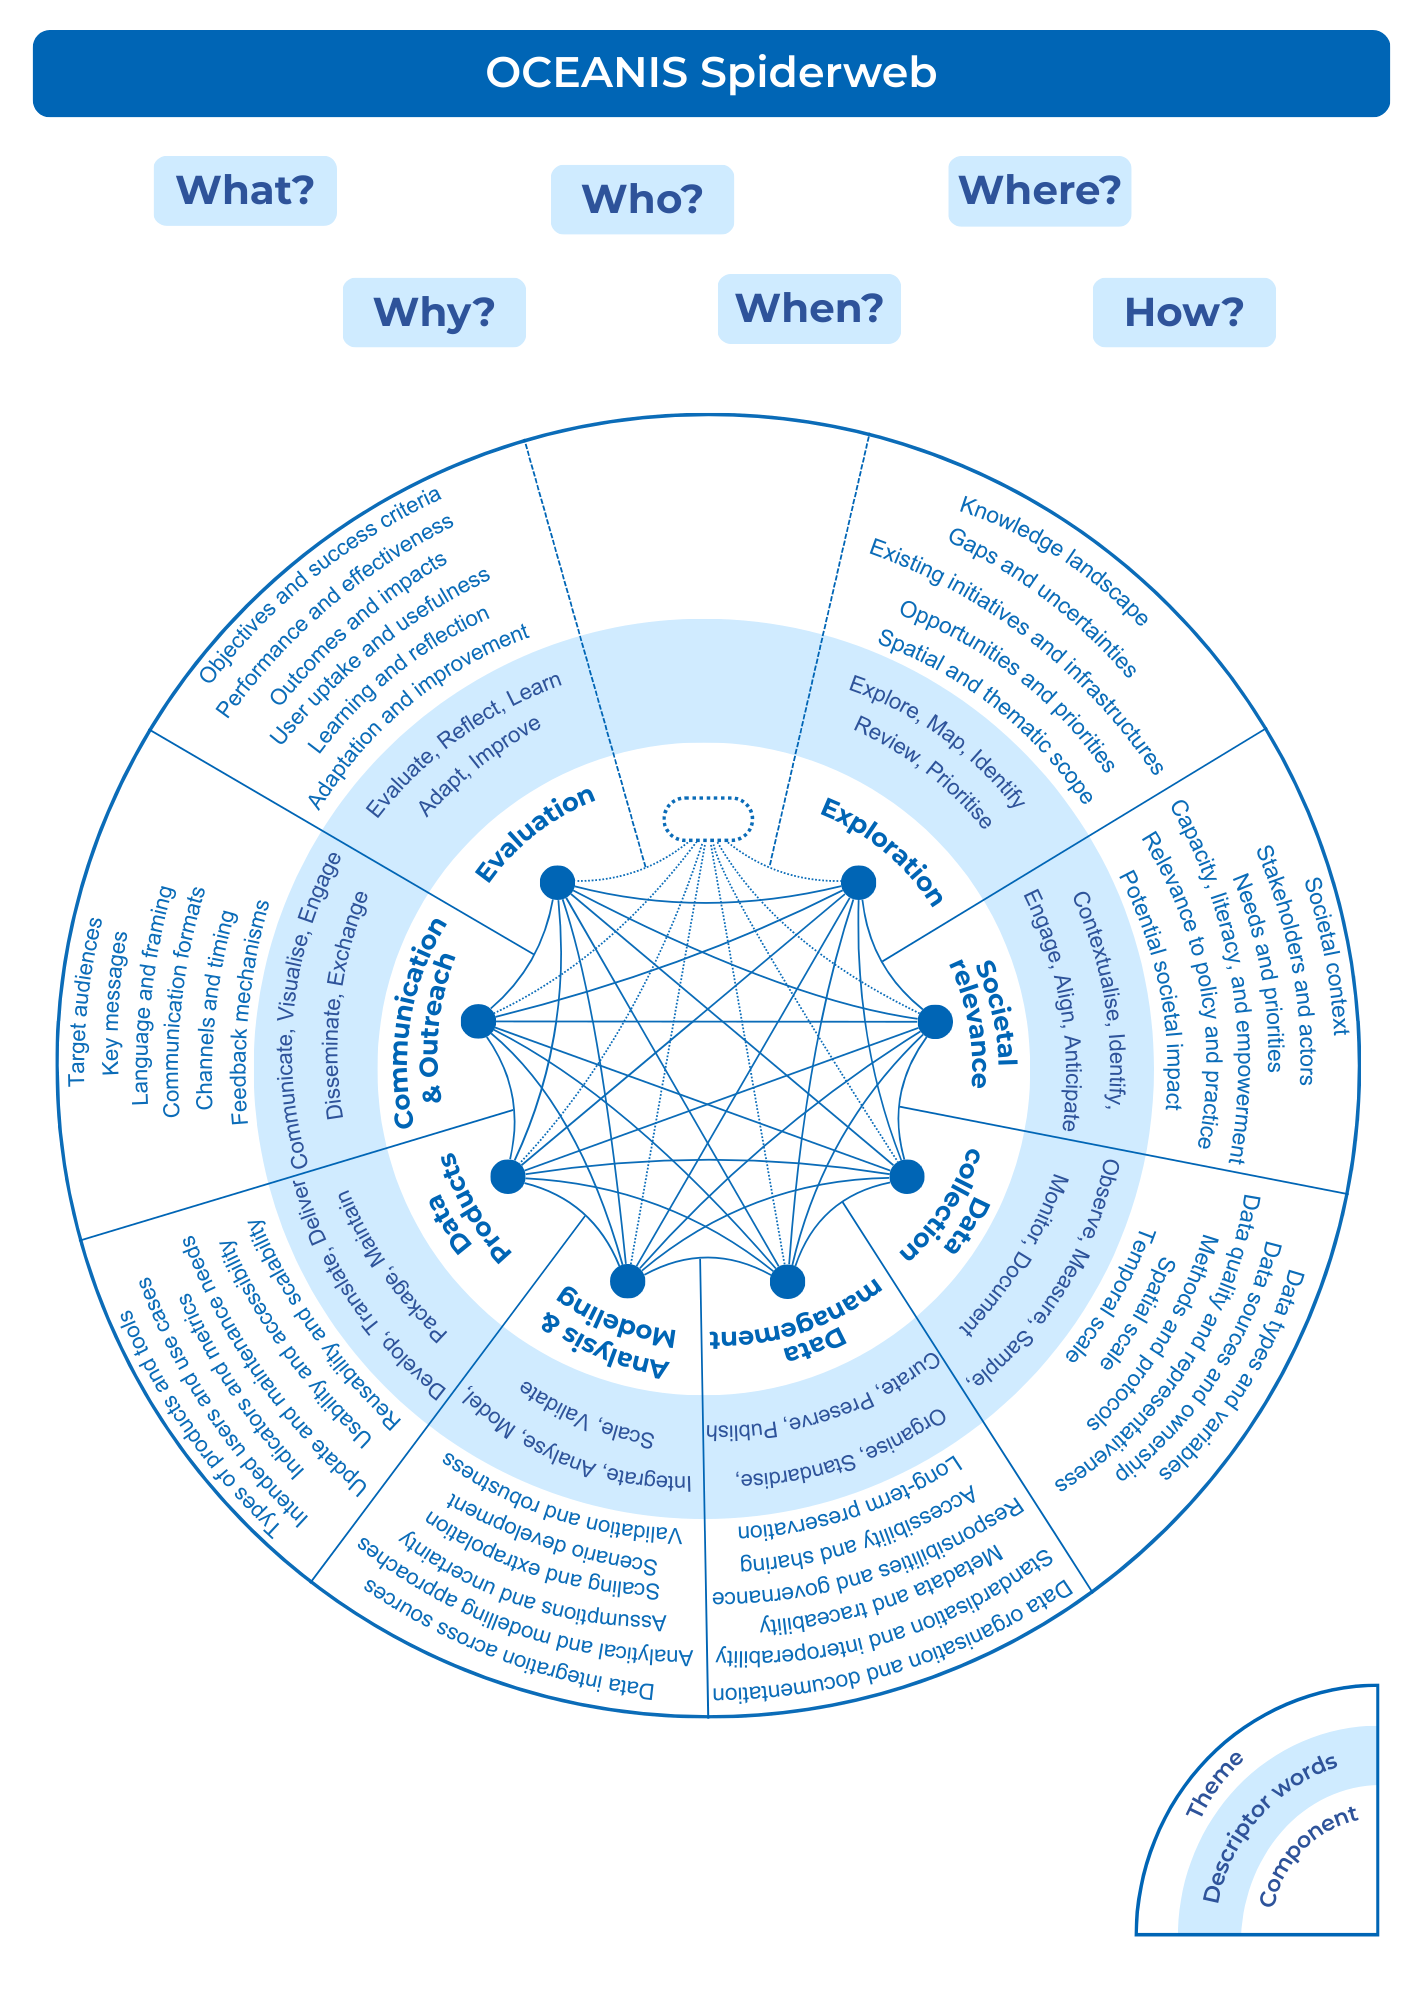
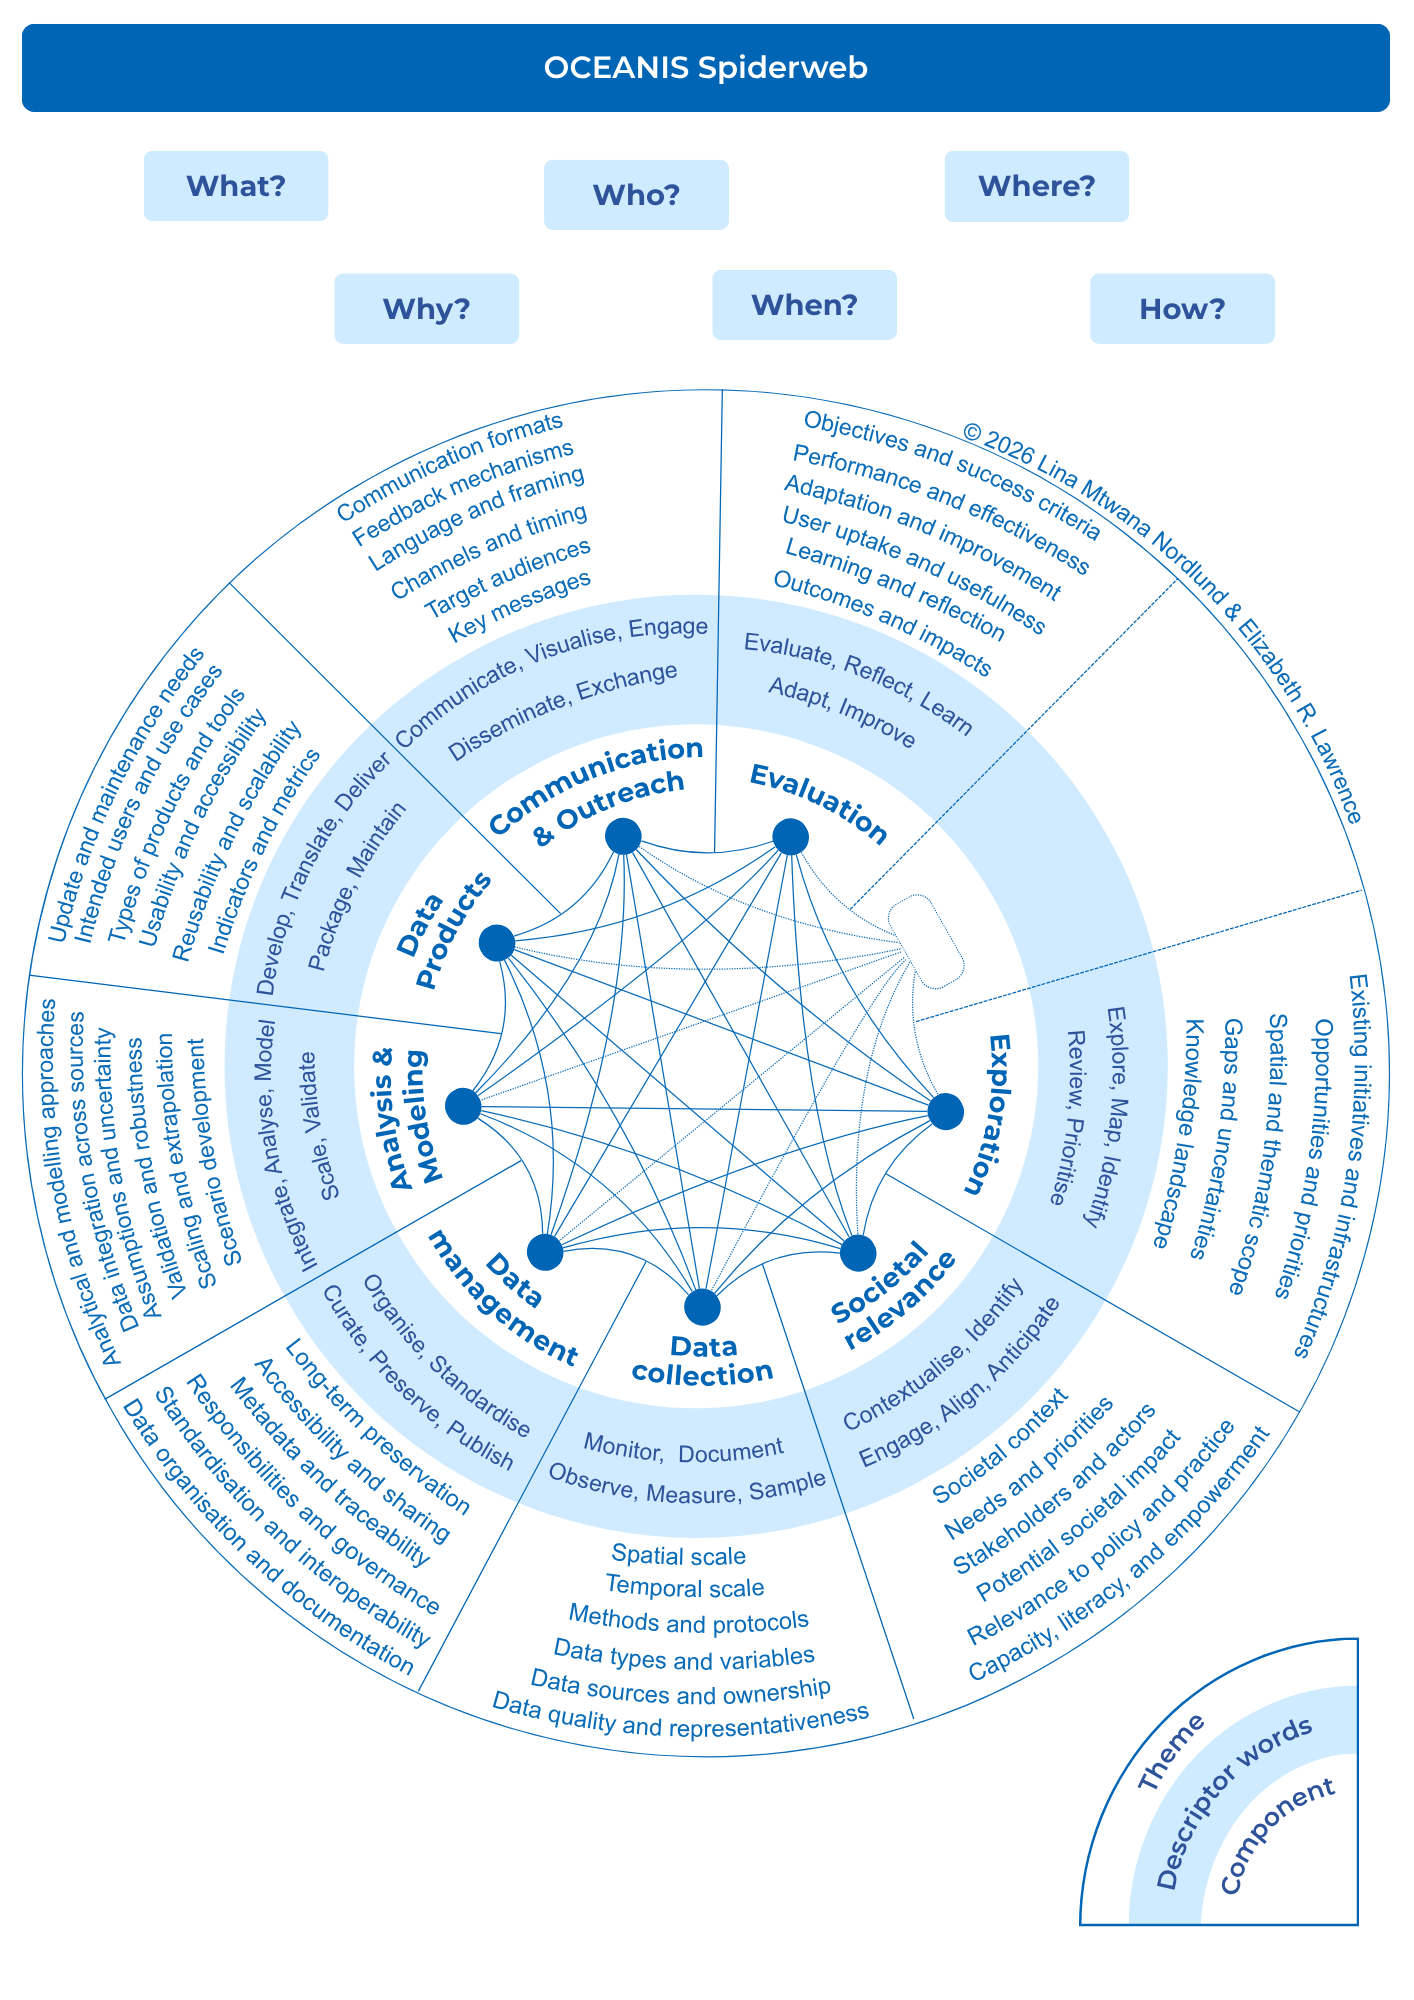
update licensing
Replace CC0  license with a licensing-review, retained the original CC0 text

diff --git a/README.md b/README.md
@@ -1,15 +1,91 @@
-# blueprint-dev
+# oceanis-dev
 
-Repo for development of the interactive OCEANIS tool.
+This repository hosts the development of the interactive digital tool supporting the OCEANIS Framework.
+
+OCEANIS is a co-created, non-prescriptive framework designed to help people collaboratively explore, understand and address complex challenges.
+
+It provides a flexible architecture for holistic thinking and collaborative inquiry, helping users identify overlooked connections, gaps and uncertainties, generate new questions and ideas, and explore potential approaches to complex problems.
+
+Originally developed in the context of integrated ocean observing, OCEANIS has been advanced through an iterative co-creative process involving researchers, practitioners and stakeholders with diverse expertise. Its potential applications extend beyond ocean observing.
+
+The interactive digital tool allows users to explore the OCEANIS Spiderweb, its interconnected components, descriptors, themes and question-generating prompts.
+
+## Official OCEANIS Framework
+
+The OCEANIS Framework is maintained as a separate, versioned research resource on Zenodo.
+
+**Official title**: OCEANIS Framework
+**Framework creators**: Lina Mtwana Nordlund, Elizabeth R. Lawrence and Said Hashim.
+**First archived version**: v0.9 (in preparation).
+**Reserved version DOI**: 10.5281/zenodo.23724343
+
+The DOI is not yet registered or publicly active.
+
+Once the first version is published, the overarching Concept DOI will be added here as the permanent reference to the OCEANIS Framework and its future versions.
+
+The framework is a distinct research output from the interactive digital software developed in this repository.
+
+## How to Cite OCEANIS
+
+When using the OCEANIS Framework, please cite the official Zenodo framework publication.
+
+The framework citation will be:
+
+Nordlund, L. M., Lawrence, E., & Hashim, S. (2026). OCEANIS Framework (Version 0.9). Zenodo.
+
+The DOI will be included when the publication becomes publicly available.
+
+Please distinguish citations of the OCEANIS Framework from citations of the interactive software, the OCEANIS Quick Start Guide and other associated publications.
+
+## Creators and Contributions
+
+The OCEANIS Framework has been developed through an interdisciplinary and iterative co-creative process, supported by the EU-funded BioEcoOcean project.
+
+**Framework creators:** Lina Mtwana Nordlund, Elizabeth R. Lawrence and Said Hashim.
+
+**Spiderweb illustration:** Lina Mtwana Nordlund and Elizabeth R. Lawrence.
+
+**Interactive software development:** Elizabeth R. Lawrence.
+
+Additional contributions to the development of OCEANIS are recognised separately.
+
+A more detailed contribution statement, using CRediT roles where appropriate, will be developed to acknowledge conceptual, methodological, technical, visual and collaborative contributions.
+
+## Copyright and Licensing
+
+**OCEANIS Spiderweb illustration:**
+
+© 2026 Lina Mtwana Nordlund & Elizabeth R. Lawrence.
+
+Earlier versions of this repository were distributed with a CC0 1.0 Universal public domain dedication.
+
+The licensing of future original contributions is currently under review.
+
+Previously valid CC0 permissions remain unaffected. The historical version and associated licence information are retained in the repository.
+
+New original materials should not be publicly released until their applicable licensing terms have been confirmed.
+
+Please refer to the repository's LICENSE file for the current licensing notice.
+
+## Development and Governance
+
+This GitHub repository is used for the ongoing development of the interactive OCEANIS digital tool.
+
+The repository is maintained by authorised OCEANIS maintainers.
+
+Suggestions, feedback and contributions from the wider community are welcomed. Changes to the maintained digital tool require review and approval before being merged into the official development branch.
+
+Official versions of the OCEANIS Framework are published separately on Zenodo.
 
 ## Site structure and local preview
 
 The site uses GitHub Pages' built-in Jekyll support. Shared navigation and footer markup live in `_includes/`, the page wrapper is in `_layouts/default.html`, and page content stays in small root-level HTML files. The main pages are `index.html` (overview), `interactive.html` (spiderweb), and `resources.html` (resource library).
 
 Install Ruby and Jekyll, then run `jekyll serve --baseurl ""` from the repository root for a local preview. Open the local URL printed by Jekyll; the site rebuilds when files change. The workflow in `.github/workflows/deploy.yml` builds and deploys the site on pushes to `main` and can also be run manually.
+
 ## Add contributors
 
-To add to the list of contributors, go to the contribs folder and open the [contributors](https://github.com/BioEcoOcean/blueprint-dev/blob/zoom-patch/contribs/contributors.csv).csv file. To edit the file, you have two options:
+To add to the list of contributors, go to the `contribs/` folder and open the [contributors](https://github.com/BioEcoOcean/blueprint-dev/blob/zoom-patch/contribs/contributors.csv).csv file. To edit the file, you have two options:
 
 1. Click the pencil in the top right. Then edit the file directly. Do not add spaces between commas separating names, but within a name or organization title it's okay. Example: FIRST NAME,LAST NAME,ORGANIZATION TITLE,EMAIL. Email is optional and we can remove this column if necessary. When you're done, click the green commit changes button.
    ![](images/edit-contrib-ss.png)
@@ -18,9 +94,8 @@ To add to the list of contributors, go to the contribs folder and open the [cont
    ![](images/add-file-ss.png)
    b. Click add file, then upload the modified file. Do not change the file name, it's okay if it is overwritten. If you need to add, remove, or change columns, please make sure there is always "First Name", "last Name", and "Organization". Contact @EliLawrence for questions.
 
-
 ## Host script locally
 
 1. Navigate to the directory containing project files. For example: cd /path/to/your/project
 2. Start the HTTP server: `jekyll serve --baseurl= --port 8001`
-3. Navigate to http://localhost:8000 
+3. Navigate to http://localhost:8001 
